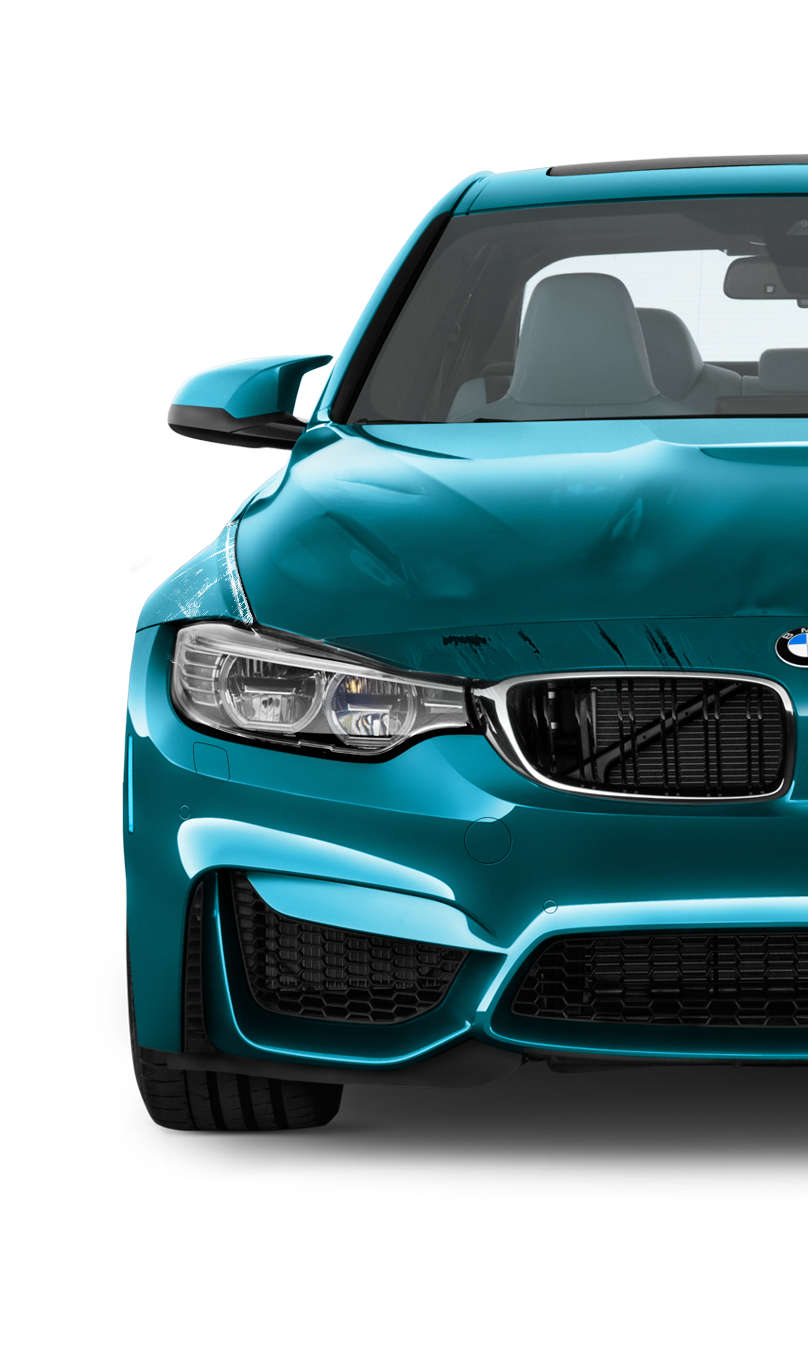
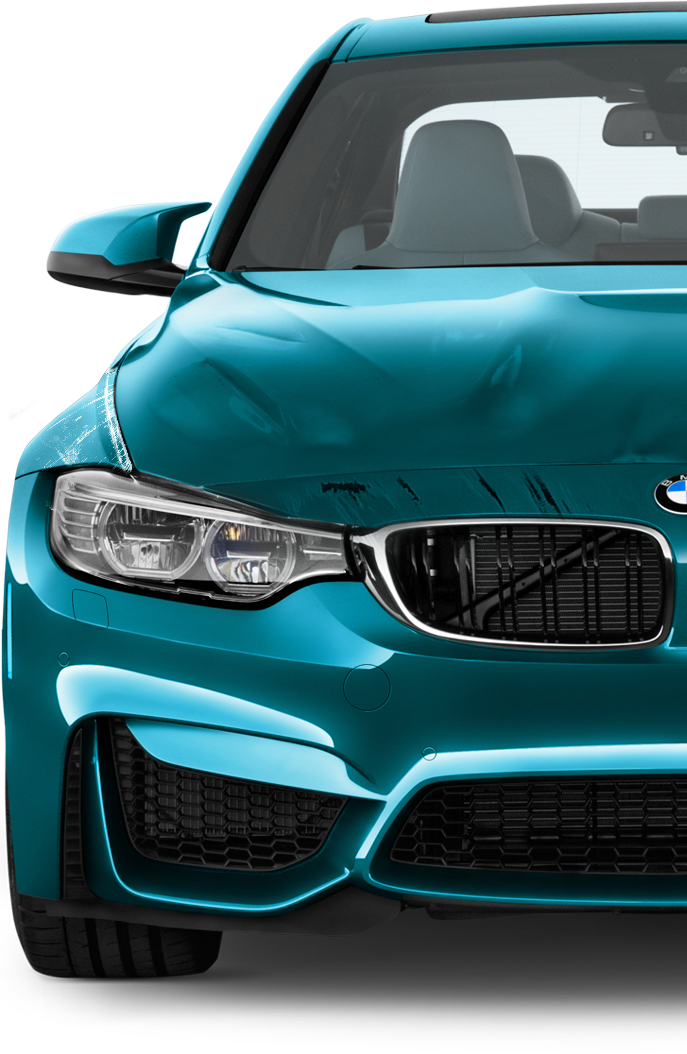
feat: complete comparison img-s effect * add 2 img-s without paddings * fix: bug when drug compare object `preventDefault()` * feat: shape line + circle with arrows svg * fix: gid position on tablet * fix: padding on tablet

diff --git a/src/components/ComparisonSlider/index.tsx b/src/components/ComparisonSlider/index.tsx
@@ -30,8 +30,13 @@ const ComparisonSlider: FC<IComparisonSliderProps> = ({
       topImageRef.current.getBoundingClientRect() as DOMRect;
     const handleWidth = lineCompareRef.current.offsetWidth as number;
 
-    if (clientXPosition >= left && clientXPosition <= width + left - handleWidth) {
-      lineCompareRef.current.style.left = `${((clientXPosition - left) / width) * 100}%`;
+    if (
+      clientXPosition >= left &&
+      clientXPosition <= width + left - handleWidth
+    ) {
+      lineCompareRef.current.style.left = `${
+        ((clientXPosition - left) / width) * 100
+      }%`;
       topImageRef.current.style.clipPath = `inset(0 ${
         100 - ((clientXPosition - left) / width) * 100
       }% 0 0)`;
@@ -40,10 +45,10 @@ const ComparisonSlider: FC<IComparisonSliderProps> = ({
 
   const handleResize = useCallback(
     (e: MouseEvent | TouchEvent) => {
+      e.preventDefault();
       if (e instanceof MouseEvent) {
         setPositioning(e.clientX);
       } else if (e instanceof TouchEvent) {
-        e.preventDefault();
         setPositioning(e.touches[0].clientX);
       }
     },
@@ -60,7 +65,7 @@ const ComparisonSlider: FC<IComparisonSliderProps> = ({
 
   useEffect(() => {
     if (isResizing) {
-      window.addEventListener('mousemove', handleResize);
+      window.addEventListener('mousemove', handleResize, { passive: false });
       window.addEventListener('touchmove', handleResize, { passive: false });
       window.addEventListener('mouseup', handleResizeEnd);
       window.addEventListener('touchend', handleResizeEnd);
@@ -85,7 +90,7 @@ const ComparisonSlider: FC<IComparisonSliderProps> = ({
   }, [setPositioning]);
 
   return (
-    <div className="relative box-border h-[722px] w-full">
+    <div className="relative ml-auto box-border h-[520px] w-[340px] overflow-hidden lg:h-[722px] lg:w-[470px]">
       <Image
         src={topImg}
         alt={bottomImgAlt}
@@ -101,11 +106,11 @@ const ComparisonSlider: FC<IComparisonSliderProps> = ({
       />
       <div
         ref={lineCompareRef}
-        className="absolute h-full w-[50px] cursor-col-resize"
+        className="absolute h-full cursor-col-resize"
         onMouseDown={() => setIsResizing(true)}
         onTouchStart={() => setIsResizing(true)}
       >
-        <LineDottedFigure />
+        <LineDottedFigure className="h-[520px] lg:h-[722px]" />
       </div>
     </div>
   );

diff --git a/src/components/figures/LineDotted/index.tsx b/src/components/figures/LineDotted/index.tsx
@@ -5,7 +5,7 @@ import type { BaseIconProps } from '@/types/baseIcon';
 type LineDottedFigure = BaseIconProps;
 
 export const LineDottedFigure: FC<LineDottedFigure> = ({
-  width = 3,
+  width = 53,
   height = 775,
   ...props
 }) => {
@@ -13,22 +13,34 @@ export const LineDottedFigure: FC<LineDottedFigure> = ({
     <svg
       width={width}
       height={height}
-      viewBox="0 0 3 775"
+      viewBox="0 0 53 775"
       fill="none"
+      preserveAspectRatio="xMidYMid meet"
       {...props}
     >
       <path
-        d="M1.49998 0.5L1.49998 348.5M1.49995 774.5L1.49995 398.5"
-        stroke="url(#paint0_linear_136_37)"
-        strokeWidth={3}
+        d="M26.5 0.5L26.5 348.5M26.5 774.5L26.5 398.5"
+        stroke="url(#paint0_linear_829_118)"
+        strokeWidth="3"
         strokeDasharray="12 12"
       />
+      <circle
+        cx="26.5"
+        cy="373.5"
+        r="25"
+        fill="white"
+        fillOpacity="0.5"
+        stroke="white"
+        strokeWidth="3"
+      />
+      <path d="M18 382L9 373.5L18 365V382Z" fill="white" />
+      <path d="M35 365L44 373.5L35 382L35 365Z" fill="white" />
       <defs>
         <linearGradient
-          id="paint0_linear_136_37"
-          x1="0.244807"
+          id="paint0_linear_829_118"
+          x1="25.2448"
           y1="0.999999"
-          x2="0.9735"
+          x2="25.9735"
           y2="774.999"
           gradientUnits="userSpaceOnUse"
         >

diff --git a/src/components/Restoration/index.tsx b/src/components/Restoration/index.tsx
@@ -9,7 +9,7 @@ import BottomPositionFixedCar from '@/../public/images/restore-fixed-car.png';
 
 export const Restoration = () => {
   return (
-    <div className="relative grid gap-y-9 lg:grid-cols-2">
+    <div className="relative grid gap-y-9 md:grid-cols-2">
       <div className="absolute left-0 top-0 h-[242px] w-[364px] lg:h-[506px] lg:w-[762px]">
         <Image src={BackgroundNumberImg} alt="цифра 02" />
       </div>
@@ -22,7 +22,7 @@ export const Restoration = () => {
             відновлення
           </h2>
         </div>
-        <div className="mt-12 md:mt-24">
+        <div className="mt-12 lg:mt-24">
           <p>
             Відновлюємо будь-яку проблему на вашій рамі. Викликано нещасним
             випадком або з інших причин. Вам потрібно лише показати своє авто
